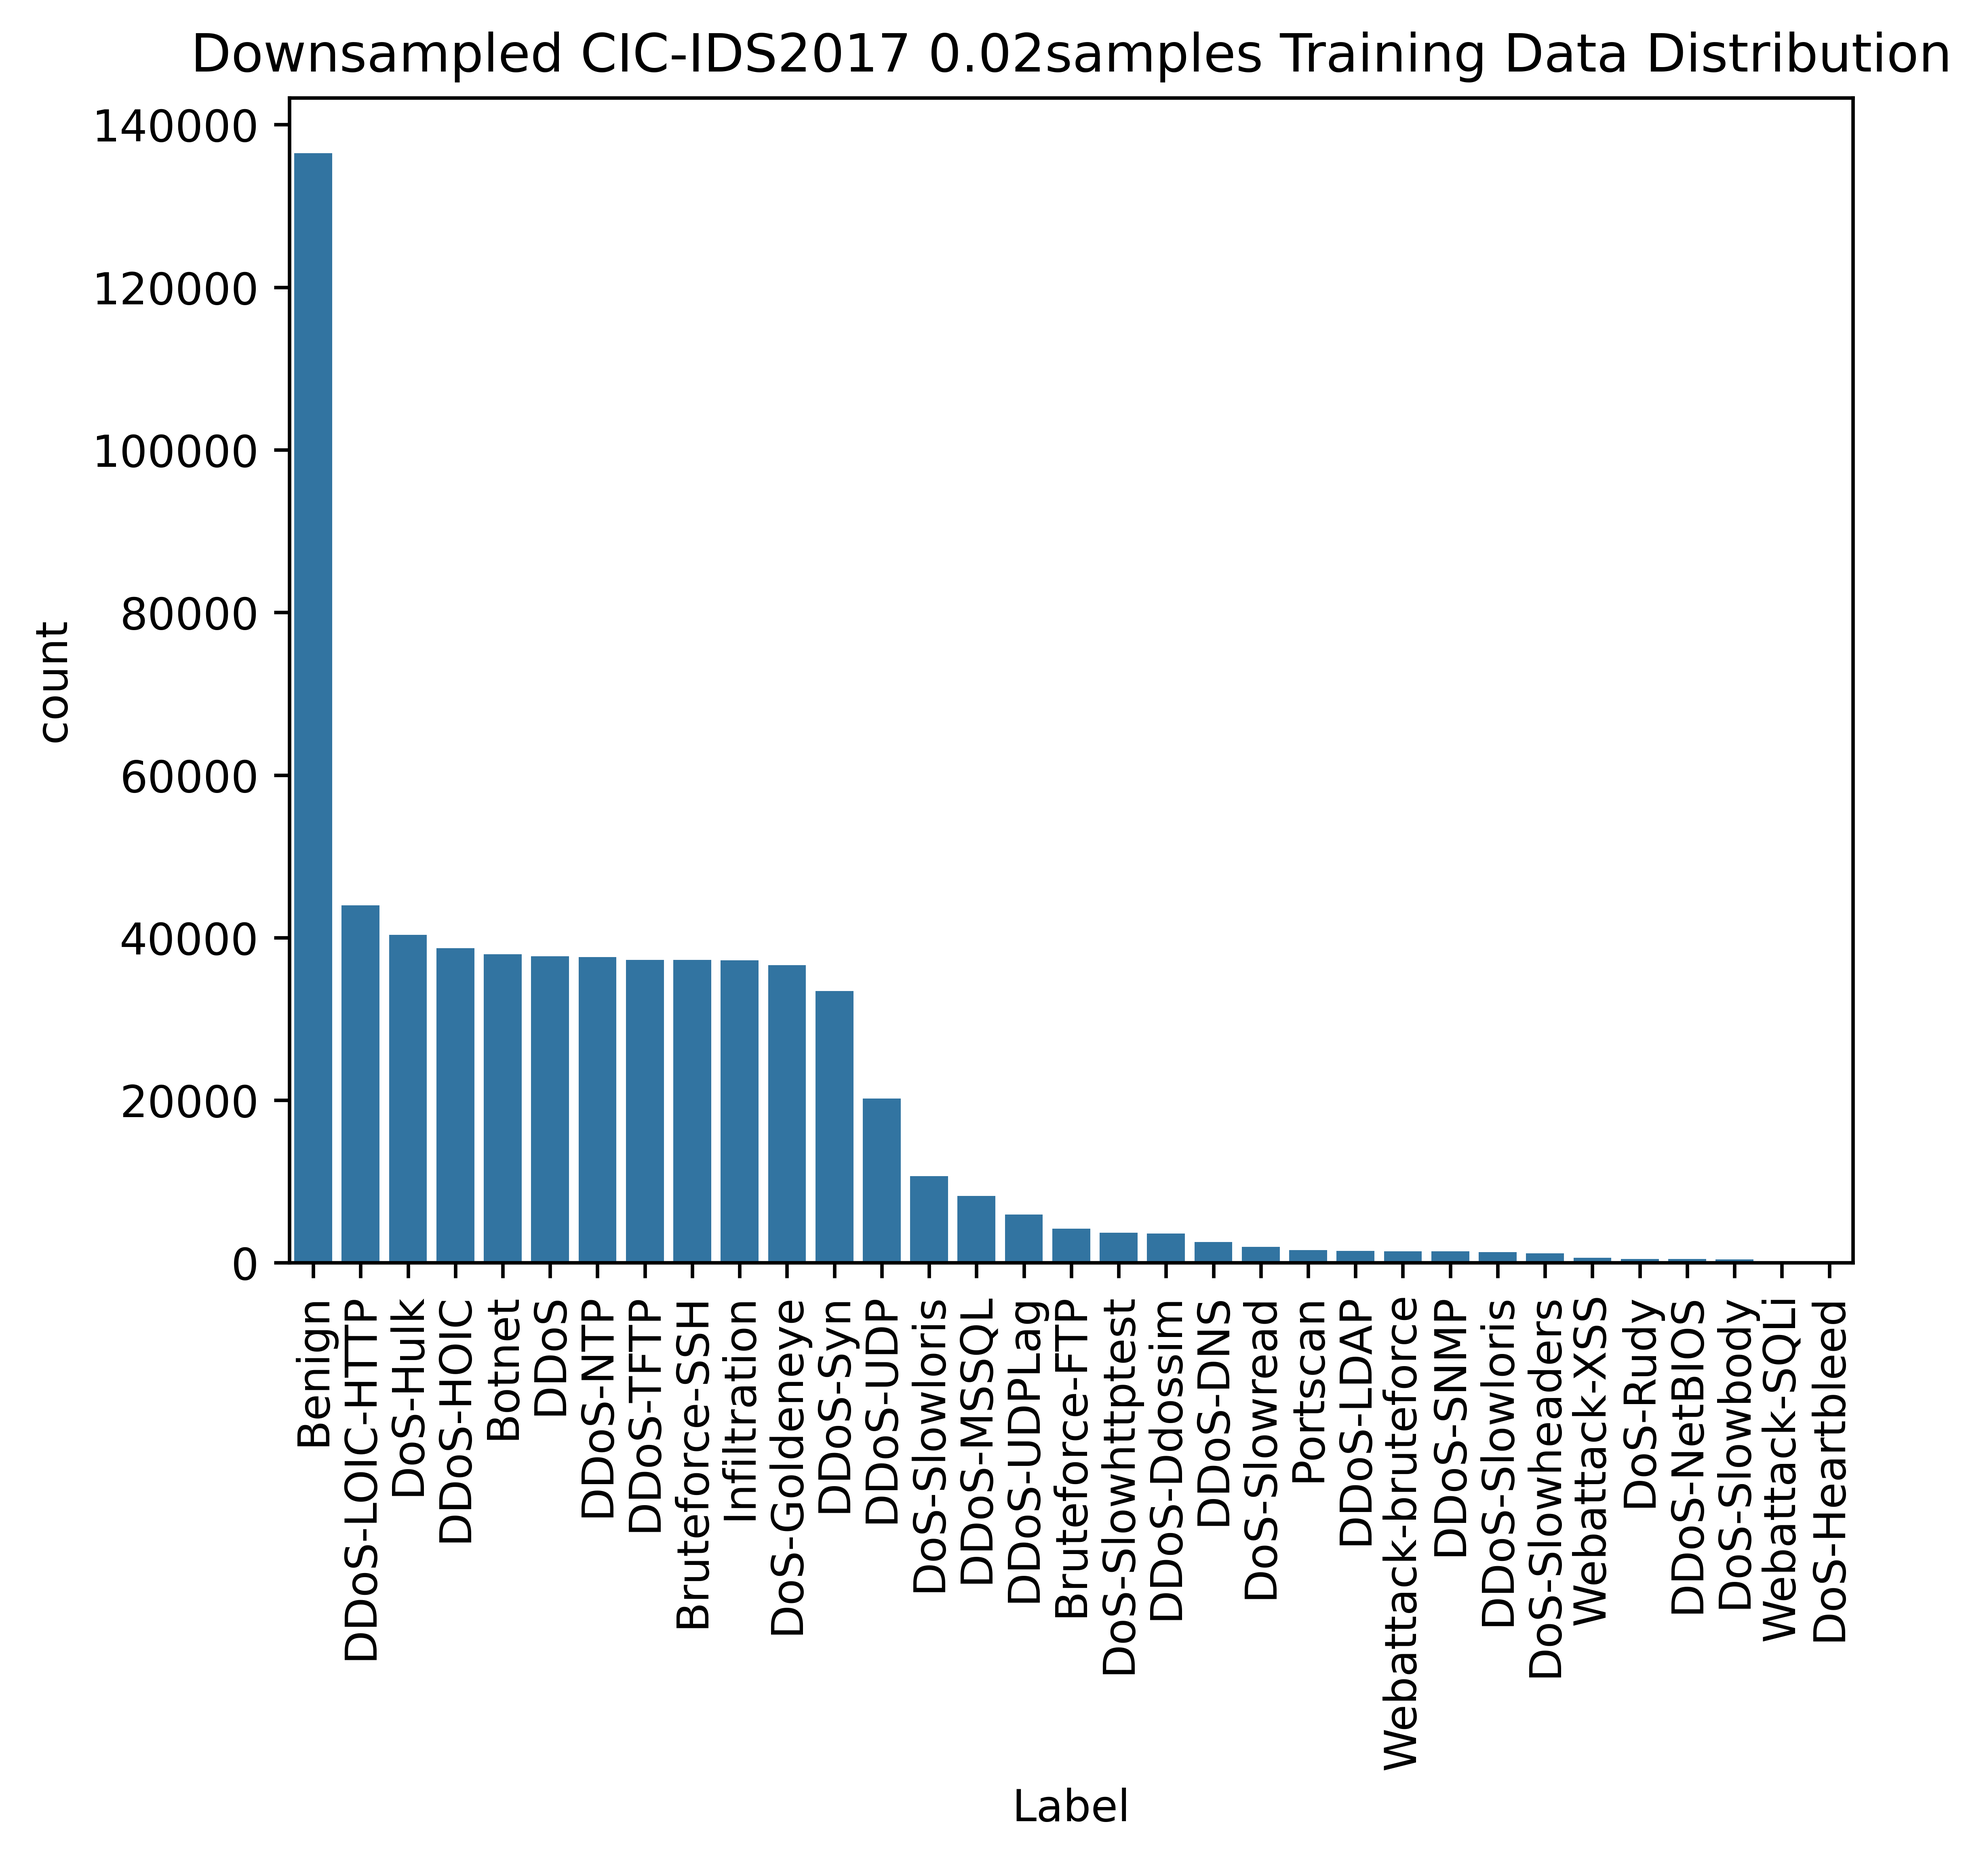
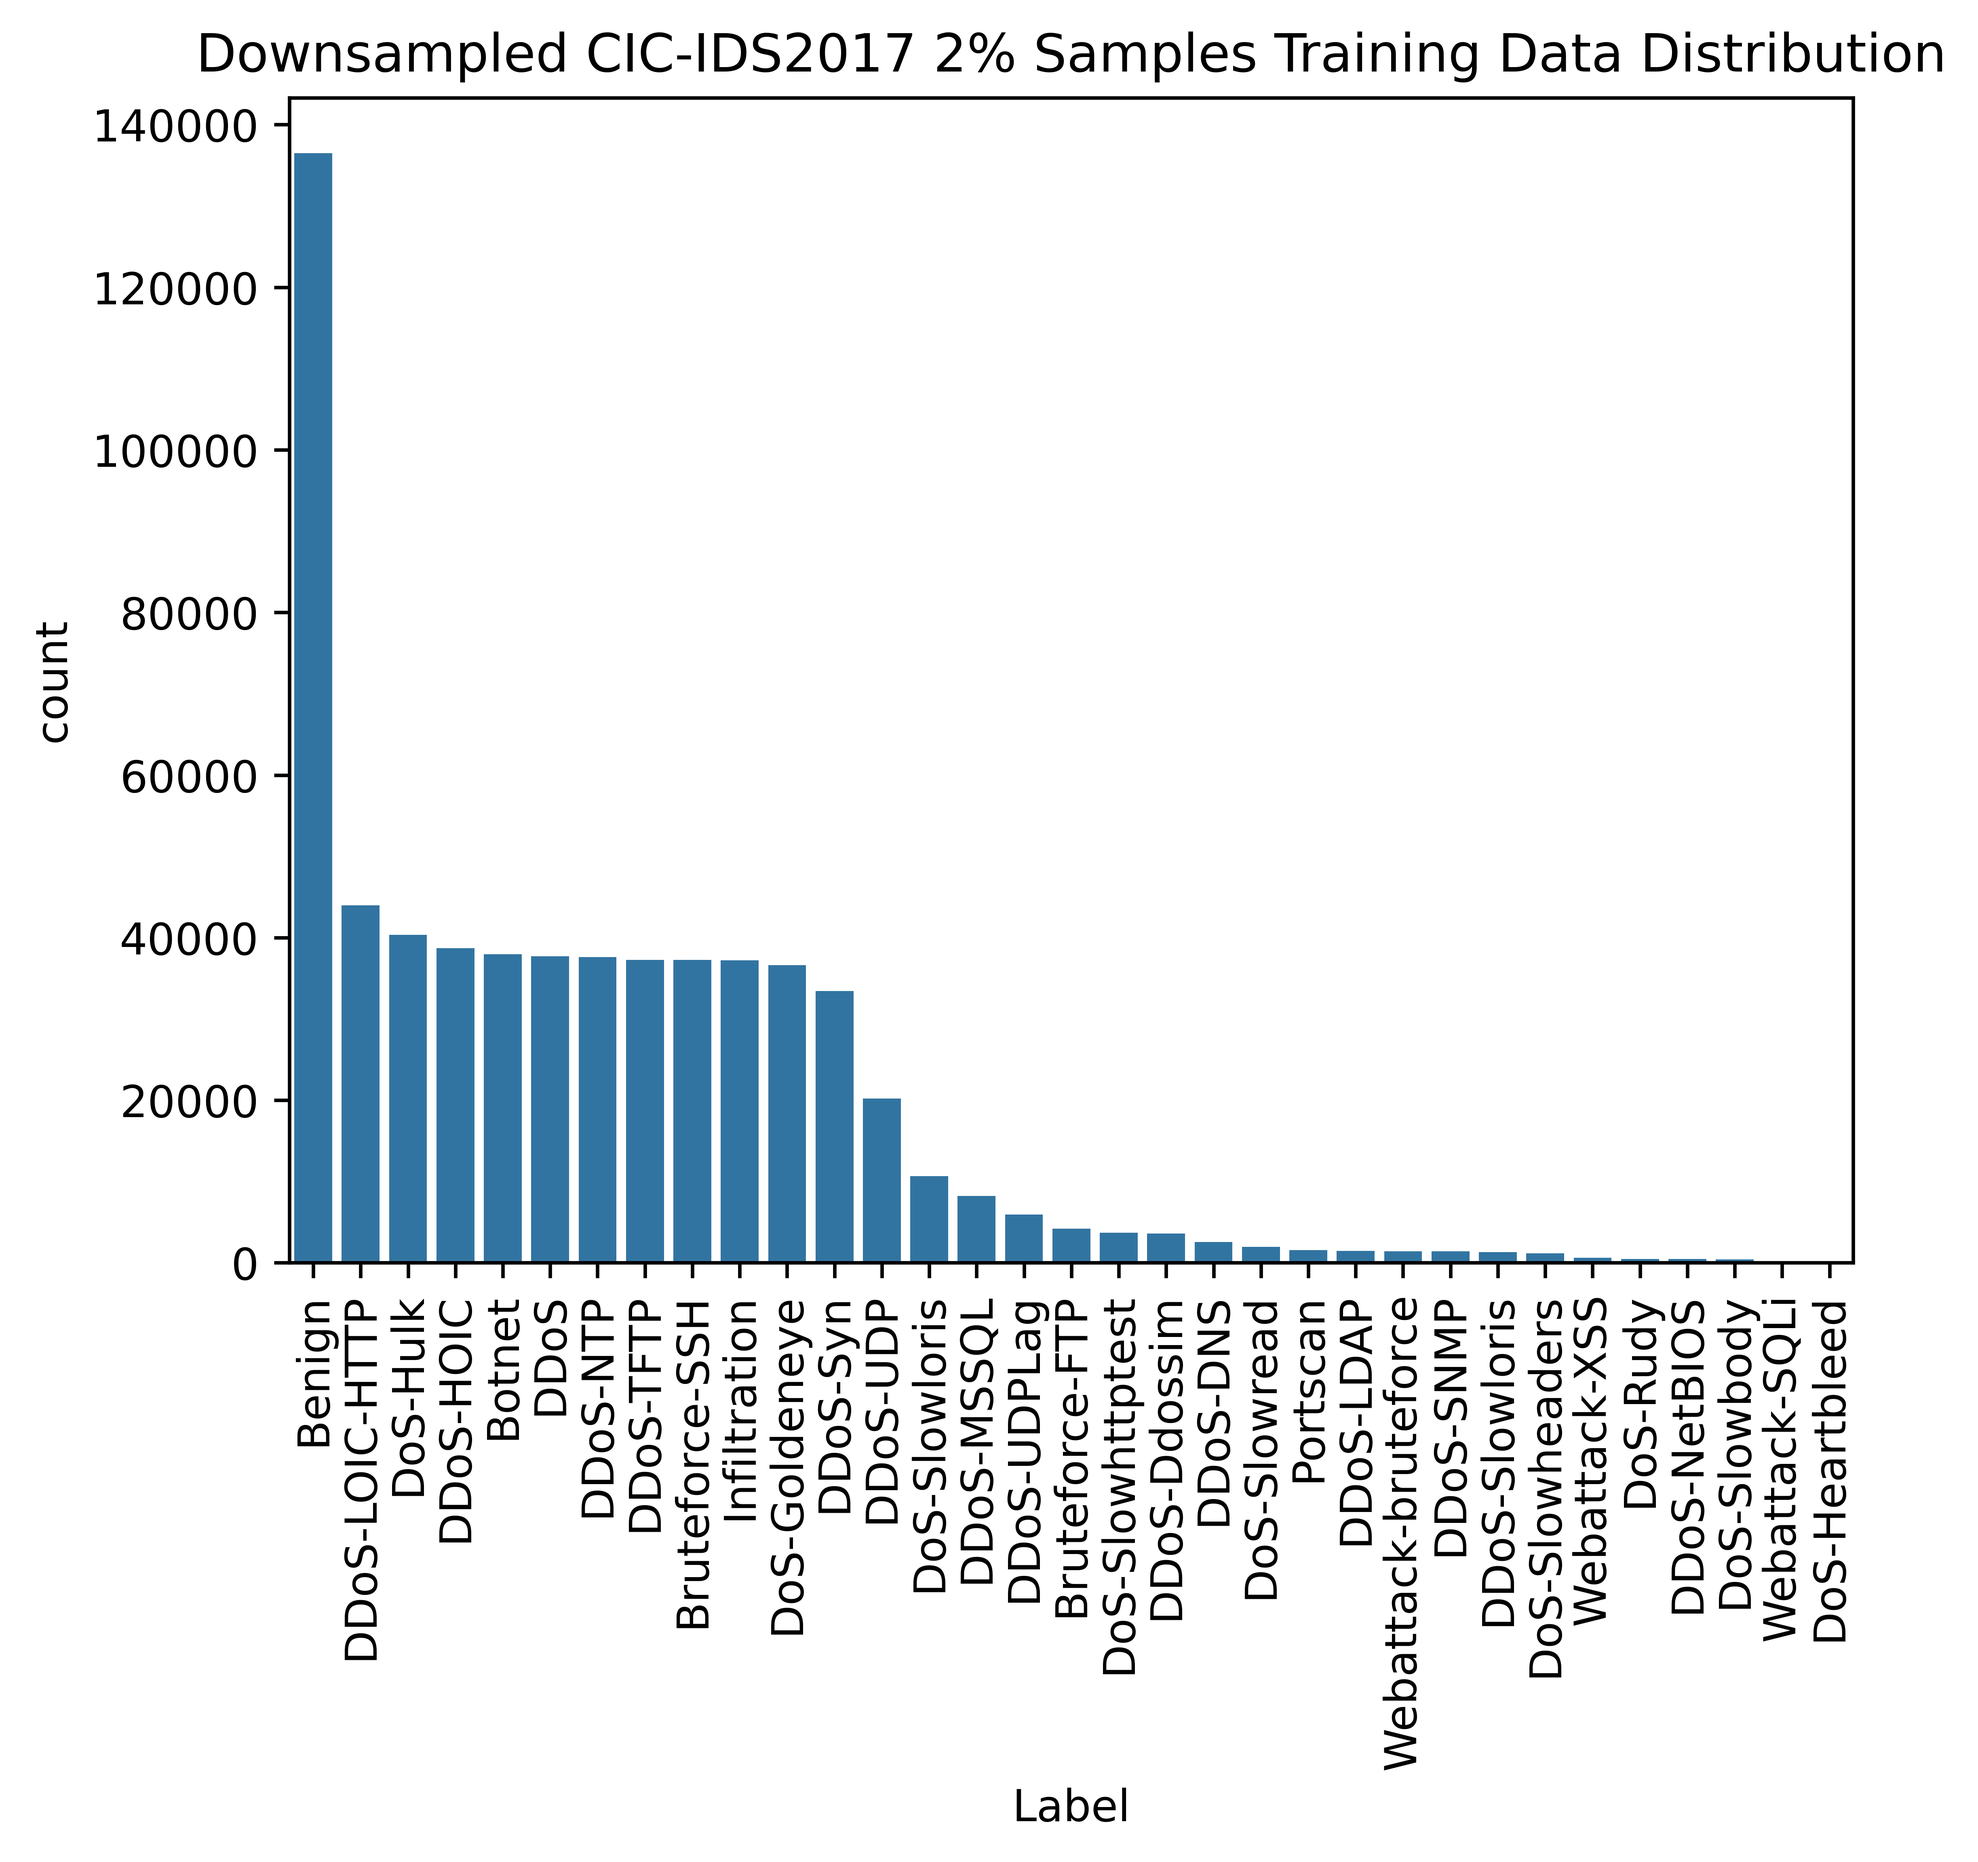
fixed plt title for cicids2017 population

diff --git a/generate_test_scores.py b/generate_test_scores.py
@@ -658,7 +658,7 @@ class GenerateTestScores():
         else:
             label_col = "Label"
             tokenizer_file_name = f'./securityBERT/tokenizer_CICIDS2017_0.02samples'
-            data_figure_title = "Downsampled CIC-IDS2017 0.02samples"
+            data_figure_title = "Downsampled CIC-IDS2017 2% Samples"
             data_figure_file_name = "./figures/cicids2017-0.02samples"
             
         data_order = data[label_col].value_counts().index
